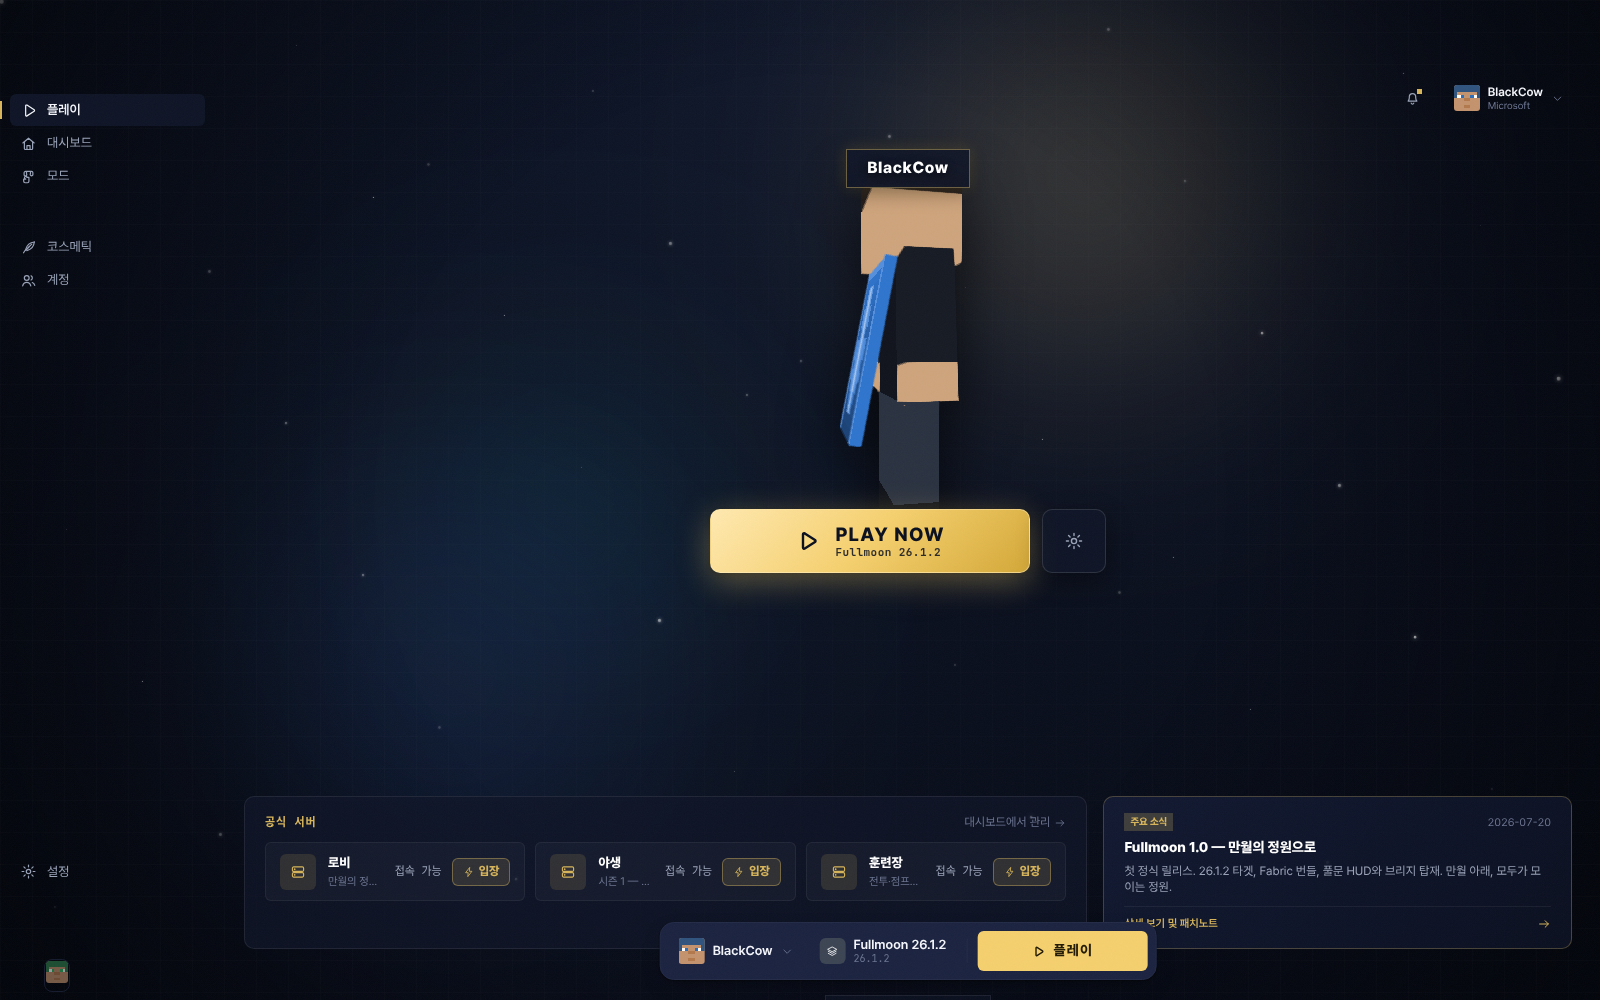
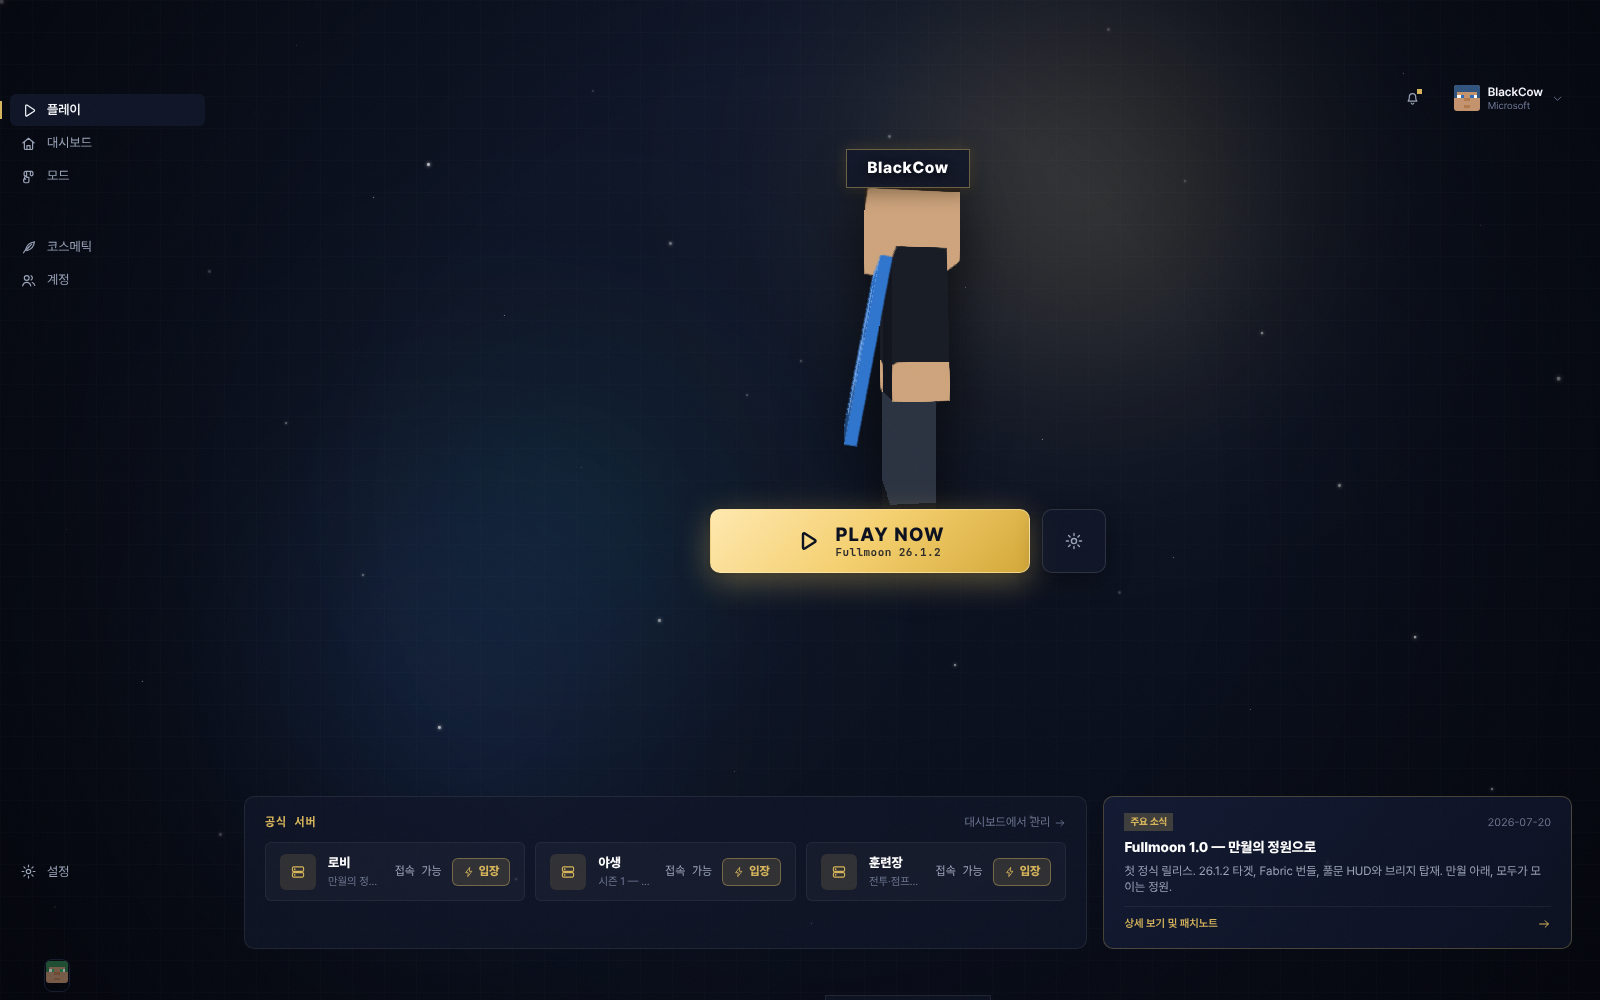
feat(i3): hide bottom play dock on play screen and animate on scroll up/down

Changed region(s): [[0.4062, 0.899, 0.7188, 0.992], [0.5, 0.248, 0.5625, 0.465], [0.5938, 0.372, 0.625, 0.403]]

diff --git a/launcher/src/components/PlayDock.tsx b/launcher/src/components/PlayDock.tsx
@@ -42,12 +42,64 @@ function DockMenu({
 
 export function PlayDock() {
   const {
+    screen,
     accounts, activeAccount, selectAccount,
     selectedInstance,
     installInstance, launch, game, setScreen, setOverlayHidden,
   } = useStore();
   const { t } = useT();
   const [accOpen, setAccOpen] = useState(false);
+
+  // Hidden on Play screen by default, visible on other screens
+  const [visible, setVisible] = useState(() => screen !== "play");
+  const lastScrollTopRef = useRef(0);
+
+  useEffect(() => {
+    if (screen === "play") {
+      setVisible(false);
+    } else {
+      setVisible(true);
+    }
+
+    const contentEl = document.querySelector(".content");
+    if (!contentEl) return;
+
+    lastScrollTopRef.current = contentEl.scrollTop;
+
+    const onScroll = () => {
+      const st = contentEl.scrollTop;
+      const prev = lastScrollTopRef.current;
+      const diff = st - prev;
+
+      if (screen === "play") {
+        if (st < 100) {
+          // At top hero stage of Play screen -> always hide
+          setVisible(false);
+        } else if (diff > 6) {
+          // Scrolling down into dashboard -> show
+          setVisible(true);
+        } else if (diff < -6) {
+          // Scrolling up -> hide
+          setVisible(false);
+        }
+      } else {
+        if (st <= 10) {
+          setVisible(true);
+        } else if (diff > 6) {
+          // Scrolling down -> show
+          setVisible(true);
+        } else if (diff < -6) {
+          // Scrolling up -> hide
+          setVisible(false);
+        }
+      }
+
+      lastScrollTopRef.current = st;
+    };
+
+    contentEl.addEventListener("scroll", onScroll, { passive: true });
+    return () => contentEl.removeEventListener("scroll", onScroll);
+  }, [screen]);
 
   const installing = selectedInstance?.installing ?? null;
   const sessionIsMine = game.sessionId && game.instanceId === selectedInstance?.id;
@@ -130,7 +182,7 @@ export function PlayDock() {
   }
 
   return (
-    <footer className="dock">
+    <footer className={`dock ${visible ? "" : "hidden"}`}>
       <div className="dock-left">
         <DockMenu
           open={accOpen}

diff --git a/launcher/src/styles/shell.css b/launcher/src/styles/shell.css
@@ -457,6 +457,13 @@
   border: 1px solid var(--line);
   border-radius: var(--radius-3);
   box-shadow: var(--shadow-2);
+  transition: transform var(--dur-slow) var(--ease-out), opacity var(--dur-slow) var(--ease-out);
+}
+
+.dock.hidden {
+  transform: translate(-50%, calc(100% + 40px));
+  opacity: 0;
+  pointer-events: none;
 }
 .dock-left { display: flex; align-items: center; gap: 6px; }
 .dock-divider { width: 1px; height: 24px; background: var(--line); }
